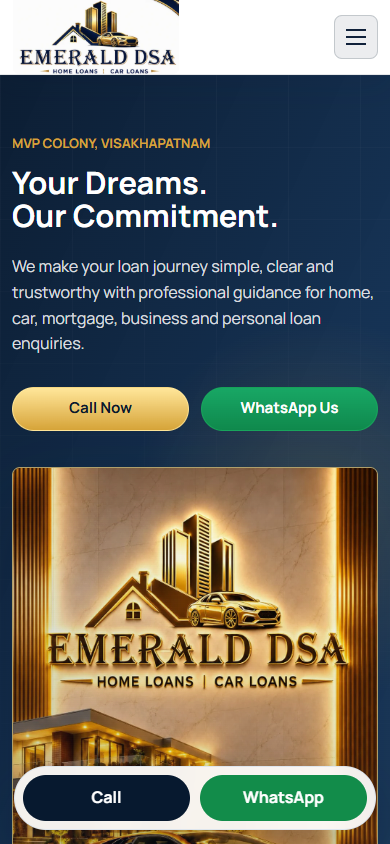
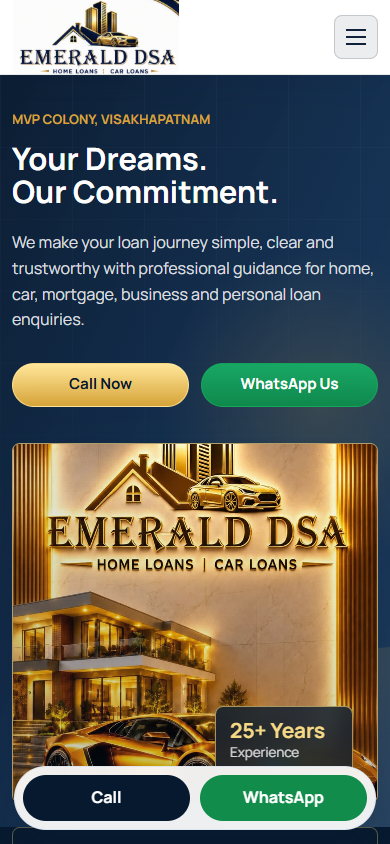
Refine team section and owner name

diff --git a/index.html b/index.html
@@ -122,11 +122,11 @@
           <div>
             <p class="eyebrow">About Emerald DSA</p>
             <h2 id="about-title">Established local loan guidance in Visakhapatnam</h2>
-            <p>Emerald DSA is a loan assistance and facilitation service based in Visakhapatnam. Led by <span data-owner-name>Mr. Kumar Ganesh</span>, the business assists individuals and businesses with understanding loan options, documentation requirements and coordination with banks and financial institutions.</p>
+            <p>Emerald DSA is a loan assistance and facilitation service based in Visakhapatnam. Led by <span data-owner-name>Mr. Ganesh Kumar</span>, the business assists individuals and businesses with understanding loan options, documentation requirements and coordination with banks and financial institutions.</p>
             <p class="note">Owner name, complete address and business story must be confirmed before publication.</p>
           </div>
           <div class="about-panel">
-            <img class="about-photo" src="assets/images/ganesh-kumar.webp" alt="Mr. Kumar Ganesh, Emerald DSA proprietor" width="549" height="1200" loading="lazy">
+            <img class="about-photo" src="assets/images/ganesh-kumar.webp" alt="Mr. Ganesh Kumar, Emerald DSA proprietor" width="549" height="1200" loading="lazy">
             <h3>Your Trusted Loan Partner</h3>
             <dl>
               <div><dt>Location</dt><dd>MVP Colony, Visakhapatnam</dd></div>
@@ -156,8 +156,7 @@
         <div class="container">
           <div class="section-heading">
             <p class="eyebrow">Team</p>
-            <h2 id="team-title">Guidance Led by Mr. Kumar Ganesh</h2>
-            <p>The supplied proprietor photograph is included. Additional team photographs can be added only after genuine approved images are available.</p>
+            <h2 id="team-title">Guidance Led by Mr. Ganesh Kumar</h2>
           </div>
           <div class="team-grid" data-team></div>
         </div>
@@ -183,7 +182,7 @@
             <div class="contact-cards">
               <article>
                 <h3>Business Owner</h3>
-                <p data-owner-name>Mr. Kumar Ganesh</p>
+                <p data-owner-name>Mr. Ganesh Kumar</p>
               </article>
               <article>
                 <h3>Phone</h3>

diff --git a/css/styles.css b/css/styles.css
@@ -430,8 +430,8 @@ main h1 {
 .model-hero-media {
   position: relative;
   width: min(100%, 420px);
-  max-height: 650px;
-  aspect-ratio: 1004 / 1567;
+  height: clamp(330px, 25vw, 370px);
+  max-height: none;
   min-height: 0;
   margin: 0;
   overflow: hidden;
@@ -455,8 +455,8 @@ main h1 {
   width: 100%;
   height: 100%;
   min-height: 0;
-  object-fit: contain;
-  object-position: center top;
+  object-fit: cover;
+  object-position: center 44%;
 }
 
 .model-hero-media figcaption {
@@ -707,10 +707,10 @@ main h1 {
 
 .about-photo {
   width: 100%;
-  max-height: 520px;
+  max-height: 380px;
   margin-bottom: 20px;
   object-fit: cover;
-  object-position: center 18%;
+  object-position: center 34%;
   border-radius: var(--radius);
   border: 1px solid var(--line);
 }
@@ -790,13 +790,27 @@ main h1 {
 }
 
 .team-photo {
-  width: 100%;
-  aspect-ratio: 4 / 3;
-  margin-bottom: 16px;
+  width: min(100%, 260px);
+  aspect-ratio: 1 / 1;
+  margin: 0 auto 16px;
   object-fit: cover;
-  object-position: center 18%;
+  object-position: center 30%;
   border-radius: var(--radius);
   border: 1px solid var(--line);
+}
+
+#team .team-grid {
+  grid-template-columns: minmax(0, 320px);
+  justify-content: center;
+}
+
+#team .team-card {
+  width: 100%;
+  padding: 0;
+  border: 0;
+  background: transparent;
+  box-shadow: none;
+  text-align: center;
 }
 
 .contact-section {
@@ -1194,7 +1208,8 @@ main h1 {
 }
 
 .hero-grid {
-  padding: 58px 0 28px;
+  align-items: start;
+  padding: 34px 0 24px;
 }
 
 .hero h1 {
@@ -1359,9 +1374,9 @@ main h1 {
 
   .hero-grid {
     grid-template-columns: minmax(0, 0.85fr) minmax(460px, 0.82fr);
-    align-items: center;
+    align-items: start;
     min-height: auto;
-    padding: 58px 0 18px;
+    padding: 34px 0 22px;
   }
 
   .hero h1 {

diff --git a/js/main.js b/js/main.js
@@ -1,7 +1,7 @@
 const SITE_CONFIG = {
   businessName: "Emerald DSA",
   tagline: "Your Trusted Loan Partner",
-  ownerDisplayName: "Mr. Kumar Ganesh",
+  ownerDisplayName: "Mr. Ganesh Kumar",
   primaryPhone: "7989251135",
   secondaryPhone: "9848263494",
   whatsappPhone: "7989251135",
@@ -46,15 +46,9 @@ const SITE_CONFIG = {
   team: [
     {
       role: "Owner / Proprietor",
-      note: "Mr. Kumar Ganesh",
+      note: "Mr. Ganesh Kumar",
       image: "assets/images/ganesh-kumar.webp",
-      alt: "Mr. Kumar Ganesh, Emerald DSA proprietor"
-    },
-    {
-      role: "Loan Assistance Team",
-      note: "Genuine team photograph pending",
-      image: "",
-      alt: ""
+      alt: "Mr. Ganesh Kumar, Emerald DSA proprietor"
     }
   ],
   testimonials: Array.from({ length: 5 }, (_, index) => [

diff --git a/CONTENT-TODO.md b/CONTENT-TODO.md
@@ -1,6 +1,6 @@
 # Content To Confirm Before Publication
 
-- Confirm final owner display name. The supplied visiting-card artwork shows `Mr. KUMAR GANESH`; the working site uses `Mr. Kumar Ganesh`.
+- Confirm final owner display name if needed. The working site uses `Mr. Ganesh Kumar`.
 - Confirm primary call number: `7989251135` or `9848263494`.
 - Confirm WhatsApp number and whether both numbers should support WhatsApp.
 - Provide complete office address with PIN code.
